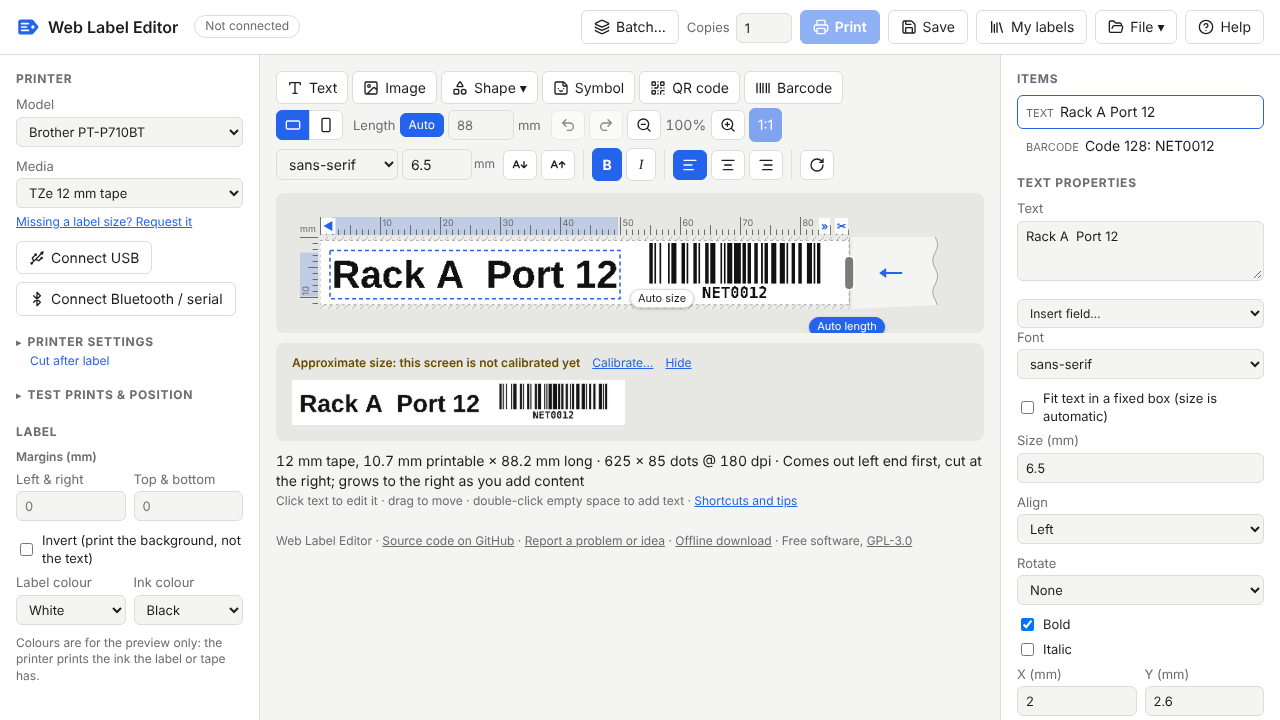
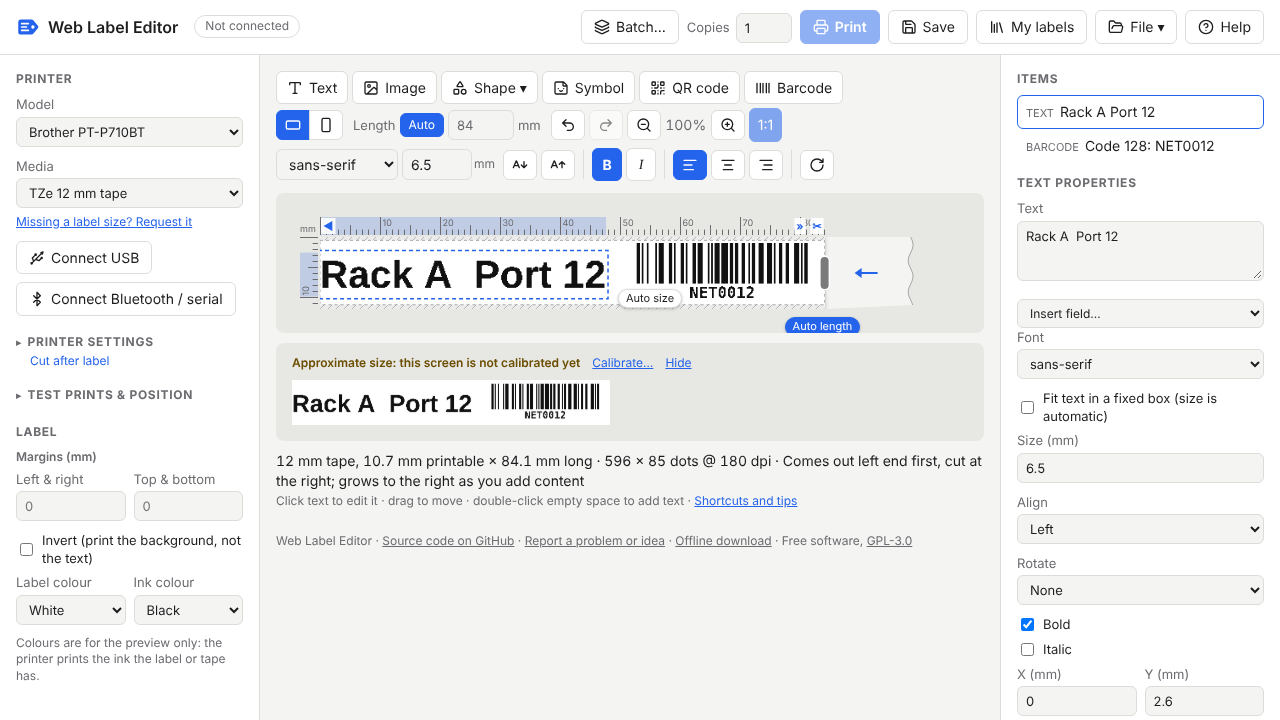
Auto length works like P-touch Editor: margin, content, margin
On Auto, the content always starts at the left margin and the label
ends one margin after it, instead of mirroring wherever the content
happened to sit. That margin is a wall while dragging (nothing goes off
the start), an item alone on the label only moves across, and items
keep their order and spacing. New labels start with a 3 mm margin at
the ends.

Claude-Session: https://claude.ai/code/session_01YQFkThD3TEfZZoGyfdA6sY

Changed region(s): [[0.25, 0.3056, 0.7188, 0.4278], [0.2188, 0.5194, 0.5, 0.6111], [0.5938, 0.4278, 0.6875, 0.4583]]

diff --git a/src/app.js b/src/app.js
@@ -40,7 +40,7 @@ function newDesign() {
     medium: '30252',
     options: {},
     length: { mode: 'auto', mm: 60 },
-    margins: { endsMm: 0, sidesMm: 0 },
+    margins: { endsMm: 3, sidesMm: 0 },
     invert: false,
     items: [
       {
@@ -504,21 +504,22 @@ function refresh({ props = false, setup = false } = {}) {
   });
 }
 
-// On Auto length, the content keeps at least the margin from the start:
-// anything closer moves along with the rest, and the label grows to fit
-// (the end gets the same space, see stripLength). Not while dragging, so
-// the other items stay put; it settles when the item is dropped.
-function keepStartMargin() {
-  const ends = userMargins().left;
-  if (!ends || drag || medium().lengthDots || design.length.mode === 'fixed' || !last) return false;
+// On Auto length (a roll or tape), the content starts at the margin, as in
+// P-touch Editor: the label is margin + content + margin, and where the
+// content sits along it is not a choice. Items keep their order and the
+// spacing between them; the whole moves to the margin. Not while dragging,
+// so nothing else moves under the pointer; it settles when dropped.
+function anchorContent() {
+  if (drag || medium().lengthDots || design.length.mode === 'fixed' || !last) return false;
   const along = last.portrait ? 'y' : 'x';
+  const anchor = last.portrait ? itemMargins().top : itemMargins().left;
   let start = Infinity;
   last.bounds.forEach((b, i) => {
     const slot = b && last.slots.find((sl) => sl.lane === last.lanes[i]);
     if (slot) start = Math.min(start, (along === 'x' ? b.x - slot.ox : b.y - slot.oy) / last.dpmm);
   });
-  if (!Number.isFinite(start) || start >= ends - 0.05) return false;
-  for (const it of design.items) it[along] = round1(it[along] + ends - start);
+  if (!Number.isFinite(start) || Math.abs(start - anchor) < 0.15) return false;
+  for (const it of design.items) it[along] = round1(it[along] + anchor - start);
   return true;
 }
 
@@ -591,7 +592,7 @@ function draw() {
   for (let k = 0; k < 3; k++) {
     const moved = fitItems();
     fitted ||= moved;
-    if (!(keepStartMargin() || moved)) break;
+    if (!(anchorContent() || moved)) break;
     last = render();
   }
   // The side panel shows the new sizes.
@@ -3486,8 +3487,22 @@ function onPointerMove(e) {
   // A small wobble during a click isn't a drag.
   if (!drag.moved && Math.hypot(pt.x - drag.from.x, pt.y - drag.from.y) * zoom < 3) return;
   drag.moved = true;
+  // On Auto length the content starts at the margin (see anchorContent):
+  // that margin is a wall, and an item alone on the label only moves across.
+  const autoRoll = !medium().lengthDots && design.length.mode !== 'fixed';
+  const k = portrait() ? 'y' : 'x';
+  const ib = last.bounds[design.items.indexOf(it)];
+  const slot = ib && last.slots.find((sl) => sl.lane === laneOf(it));
+  const offset = ib && slot ? (k === 'x' ? ib.x - slot.ox : ib.y - slot.oy) / last.dpmm - it[k] : 0;
+  const alone = design.items.filter((o) => laneOf(o) === laneOf(it)).length === 1;
+  const keep = it[k];
   it.x = Math.round((pt.x - drag.dx) * 10) / 10;
   it.y = Math.round((pt.y - drag.dy) * 10) / 10;
+  if (autoRoll) {
+    const anchor = portrait() ? itemMargins().top : itemMargins().left;
+    if (alone) it[k] = keep;
+    else if (it[k] + offset < anchor) it[k] = round1(anchor - offset);
+  }
   // With a design per label, dragging an item onto another label moves it there.
   const b = last.bounds[design.items.indexOf(it)];
   if (mode() === 'separate' && b) {

diff --git a/src/render.js b/src/render.js
@@ -374,23 +374,20 @@ function drawBox(ctx, item, dpmm) {
 
 // The label's length along the feed, in dots: fixed, or (fit to content)
 // up to the furthest item (its right edge, or its bottom edge in portrait)
-// and then as much space again as before the first one (at least the
-// margin at the ends).
+// and the margin after it.
 export function stripLength(design, medium, dpi, ctx, items = design.items, portrait = false) {
   const dpmm = dpi / 25.4;
   if (medium.lengthDots) return medium.lengthDots;
   if (design.length.mode === 'fixed') return Math.max(1, Math.round(design.length.mm * dpmm));
   let right = 0;
-  let left = Infinity;
   for (const item of items) {
     const b = itemBounds(ctx, item, dpmm);
     right = Math.max(right, portrait ? b.y + b.h : b.x + b.w);
-    left = Math.min(left, portrait ? b.y : b.x);
   }
-  // The space after the content: as much as before it, and at least the
-  // user's margin at the ends.
-  const ends = (Number(design.margins?.endsMm) || 0) * dpmm;
-  const pad = Math.max(ends, Number.isFinite(left) ? left : 0);
+  // Then the margin at the end: the user's, or the label's own if wider.
+  // (The editor keeps the content starting at the same margin.)
+  const own = portrait ? medium.margins?.bottom : medium.margins?.right;
+  const pad = Math.max(Number(design.margins?.endsMm) || 0, own || 0) * dpmm;
   return Math.max(Math.round(5 * dpmm), Math.round(right + pad));
 }
 

diff --git a/src/about.js b/src/about.js
@@ -145,8 +145,8 @@ function tips() {
       li(b('Two labels per row'), ' (e.g. DYMO 30333): the preview shows the whole row. Choose the same design on '
         + 'all, a different design on each (click a label to add to it, drag items between them), or one at a time. '
         + 'The 🔓 Edit separately button on the dimmed copy unlinks it, starting from a copy of label 1.'),
-      li(b('Length'), ' (toolbar, on rolls and tape): Auto makes the label as long as its content, with the same space at '
-        + 'both ends, which saves tape when the text varies. Type a length, or drag the label\'s right end, when labels '
+      li(b('Length'), ' (toolbar, on rolls and tape): Auto makes the label the margin, the content, then the margin '
+        + '(the content always starts at the margin), which saves tape when the text varies. Type a length, or drag the label\'s right end, when labels '
         + 'must all match (drawer fronts, a batch).'),
       li(b('Margins'), ' (under Label: left & right, top & bottom) keep space clear from the edges: the guide, ',
         b('Fill safe area'), ' and new items keep inside them, and an Auto-length label grows to keep them.'),

diff --git a/README.md b/README.md
@@ -252,8 +252,9 @@ The app has its own welcome page and **Help** with the same information.
 - **Changing the label keeps the design on it:** if it no longer fits the
   new label or tape, it is shrunk evenly to fit (undo brings it back).
 - **Label length on rolls and tape:** the *Length* box in the toolbar says
-  *Auto* (as long as what is on it, with the same space after the content as
-  before it: saves tape when the text varies) or a length in mm, for labels
+  *Auto* or a length in mm. On Auto, as in P-touch Editor, the label is the
+  left margin, the content, then the right margin: the content always starts
+  at the margin, and it saves tape when the text varies. A length is for labels
   that must all match; type one, or drag the label's end as in P-touch
   Editor. On die-cut labels it shows their own length.
 - **Auto buttons on the label:** *Auto length* beside the end grip on rolls
